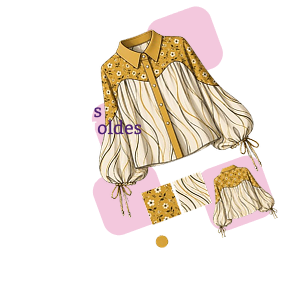
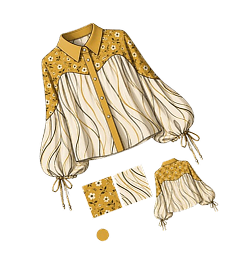
ajustes index

diff --git a/css/ind-carrossel-topo.css b/css/ind-carrossel-topo.css
@@ -2,6 +2,7 @@
     position: relative;
     display: flex;
     height: 100vh;
+    width: 100%;
     align-items: center;
     position: relative;
     background-color: #4B1F6F;
@@ -16,21 +17,21 @@ terá que ser realizado depois, pois precisa ser estudado
 
 /*---------------*/
 .frase-impacto {
-    width: 100%;
+    width: 400px;
     display: flex;
     position: relative;
-    top: -25%;
+    top: -30%;
     left: 50%;
     color: white;
 }
 
-.frase-impacto p {
+.frase-impacto h1 {
     z-index: 3;
     position: absolute;
     top: -10px;
-    left: -10%;
+    left: -64%;
     padding: 16px;
-    font-size: 32px;
+    font-size: 64px';
 }
 
 .frase-impacto img {
@@ -42,70 +43,201 @@ terá que ser realizado depois, pois precisa ser estudado
     z-index: 2;
     position: absolute;
     bottom: -70px;
-    left: -15.5%;
+    left: -90%;
     transform: rotate(-24deg);
     height: 140px;
 }
 
 #tufo {
     position: absolute;
-    left: -11%;
+    left: -65%;
     top: -30px;
     z-index: 1;
     height: 80px;
 }
 
 /*---------------*/
-
 .grid-card img {
     object-fit: cover;
     object-position: center;
-
 }
 
 #moca {
     position: absolute;
-    right: 45%;
-    bottom: 10%;
+    right: 46%;
+    bottom: 15%;
     height: 400px;
     z-index: 2;
 }
 
 .background-moca {
     position: absolute;
-    right: 45%;
-    bottom: 10%;
+    right: 46%;
+    bottom: 15%;
     z-index: 1;
     width: 200px;
     height: 200px;
     border-radius: 24px;
-    background-color: bisque;
+    background-color: #fdcce6;
 }
 
 .grid-card p {
     z-index: 1;
     color: #4B1F6F;
-    font-family: Impact, Haettenschweiler, 'Arial Narrow Bold', sans-serif;
+    font-family:monospace;
     font-size: 24px;
 }
 
 #roupas {
     position: absolute;
-    right: 51%;
-    bottom: 17%;
+    right: 52%;
+    bottom: 21%;
     z-index: 2;
 }
 
 #e {
     position: absolute;
-    right: 52%;
-    bottom: 14%;
+    right: 52.6%;
+    bottom: 17.5%;
     z-index: 2;
 }
 
 #conjuntos {
     position: absolute;
-    right: 46%;
-    bottom: 12%;
+    right: 47%;
+    bottom: 15%;
     z-index: 2;
+}
+
+
+/*---------------------------*/
+
+.grid-card img {
+    object-fit: cover;
+    object-position: center;
+}
+
+#personalizado{
+    height: 350px;
+    position: absolute;
+    right: 10%;
+    bottom: 10%;
+    z-index: 3;
+}
+
+.grid-card #bloco1, #bloco2{
+    position: absolute;
+    height: 140px;  
+    width: 140px;
+    border-radius: 100%;
+    background-color: #fdcce6;
+    z-index: 2;
+}
+
+#bloco1{
+    right: 18%;
+    bottom: 28%;
+}
+
+#bloco2{
+    right: 13%;
+    bottom: 10%;
+}
+
+.grid-card #peca-psz, #personalizadas{
+    color: white;
+    position: absolute;
+    z-index: 4;
+    font-size: 24px;
+    font-family: monospace;
+}
+
+#peca-psz{
+    right: 22.5%;
+    bottom: 35%;
+}
+
+#personalizadas{
+    right: 14%;
+    bottom: 13%;
+}
+
+/*----------------------*/
+
+.grid-card #moldes{
+    position: absolute;
+    left: 10%;
+    bottom: 8%;
+    height: 320px;
+    z-index: 3;
+}
+
+.grid-card #background-moldes{
+    background-color: aliceblue;
+    height: 220px;
+    width: 140px;
+    border-radius: 16px;
+    transform: rotate(-20deg);
+    z-index: 1;
+    position: absolute;
+    left: 12.8%;
+    bottom: 20%;
+    height: 180px;   
+}
+.grid-card #bloco3, #bloco4, #bloco5{
+    height: 100px;
+    width: 100px;
+    border-radius: 24px;
+    background-color: #fdcce6;
+    position: absolute;
+    transform: rotate(-20deg);
+    z-index: 2;
+}
+
+#bloco3{
+    bottom: 28%;
+    left: 10%;
+}
+
+
+#bloco4{
+    bottom: 18%;
+    left: 19%;
+}
+
+.grid-card #p-conh, #p-nossos, #p-moldes{
+    color: white;
+    position: absolute;
+    z-index: 4;
+    font-family: monospace;
+    font-size: 18px;
+    background-color: #fdcce6;
+    background-size: 20%;
+    padding: 2px 0 0 8px;
+    border-radius: 24px;
+}
+
+#p-conh{
+    bottom: 33%;
+    left: 8%;
+}
+
+#p-nossos{
+    bottom: 30%;
+    left: 9%;
+}
+
+#p-moldes{
+    bottom: 27%;
+    left: 10%;
+    padding-right: 4px;
+}
+
+@keyframes movimentacao {
+    from{
+        transform: rotate();
+    }
+    to{
+        transform: rotate(-20deg);
+    }
 }

diff --git a/index.html b/index.html
@@ -53,7 +53,7 @@
         <div class="frase-impacto">
             <img id="stand" src="imagens/stand.png" alt="">
             <img id="tufo" src="imagens/tufoDeLinha.png">
-            <p>O seu guarda roupa nasce Aqui</p>
+            <h1>O seu guarda roupa nasce Aqui</p>
         </div>
 
         <div class="place-cards">
@@ -63,6 +63,23 @@
                 <p id="roupas">roupas</p>
                 <p id="e">&</p>
                 <p id="conjuntos">conjuntos</p>
+            </div>
+
+            <div class="grid-card">
+                <img id="personalizado" src="imagens/pecasPersonalizadas 3.png" alt="">
+                <p id="peca-psz">Peças</p>
+                <p id="personalizadas">Personalizadas</p>
+                <div id="bloco1"></div>
+                <div id="bloco2"></div>
+            </div>
+            <div class="grid-card">
+                <img id="moldes" src="imagens/moldes.png" alt="">
+                <div id="background-moldes"></div>
+                <div id="bloco3"></div>
+                <div id="bloco4"></div>
+                <p id="p-conh">Conheça</p>
+                <p id="p-nossos">Nossos</p>
+                <p id="p-moldes">Moldes</p>
             </div>
         </div>
 
